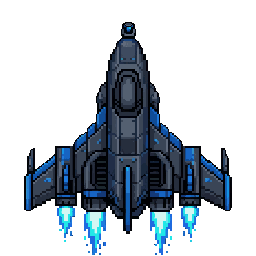
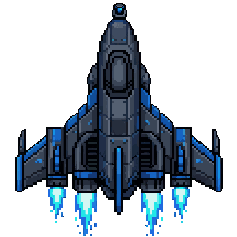
feat: Enemies, bullet colisios and explosion animation added.

Changed region(s): [[0.0591, 0.0, 0.9451, 1.0]]

diff --git a/js/enemy.js b/js/enemy.js
@@ -1,0 +1,54 @@
+import { createExplosion } from "./explosion.js"
+const ctx = document.querySelector(".playercanvas").getContext("2d");
+
+const sprite = new Image();
+sprite.src = "./assets/ships/enemy-ship-1.png"
+
+function Enemy() {
+    this.x = Math.random() * window.innerWidth;
+    this.y = window.innerHeight / 8;
+    this.dead = false;
+    this.size = 70;
+}
+
+const enemies = [];
+
+
+
+for (let i = 0; i < 6; i++) {
+    enemies.push(new Enemy());
+}
+
+export function checkColision(x, y) {
+    for (const e of enemies) {
+        if (y <= e.y + 15 && x >= e.x && x <= e.x + e.size) {
+            e.dead = true;
+            createExplosion(e.x, e.y);
+            return true;
+        }
+    }
+
+    return false;
+}
+
+export function initEnemy() {
+    sprite.onload = () => {
+        enemies.forEach((e) => {
+            ctx.drawImage(sprite, e.x, e.y, e.size, e.size);
+        });
+    };
+}
+
+export function updateEnemy() {
+    for (let i = enemies.length - 1; i >= 0; i--) {
+        if (enemies[i].dead) {
+            enemies.splice(i, 1);
+        }
+    }
+}
+
+export function drawEnemy() {
+    enemies.forEach((e) => {
+        ctx.drawImage(sprite, e.x, e.y, e.size, e.size);
+    });
+}

diff --git a/js/explosion.js b/js/explosion.js
@@ -1,0 +1,49 @@
+const ctx = document.querySelector(".playercanvas").getContext("2d");
+
+const sprite = new Image();
+sprite.src = "./assets/ships/explosion.png";
+
+const spriteSize = 128;
+const totalFrames = 10;
+const frameTime = 2; //a frame each 4 updates
+
+const explosions = [];
+
+export function createExplosion(x, y) {
+    explosions.push({
+        x,
+        y,
+        frame: 0,
+        timer: 0
+    });
+}
+
+export function drawExplosions() {
+    for (let i = explosions.length - 1; i >= 0; i--) {
+
+        const e = explosions[i];
+
+        ctx.drawImage(
+            sprite,
+            e.frame * spriteSize,
+            0,
+            spriteSize,
+            spriteSize,
+            e.x - 29,
+            e.y - 29,
+            spriteSize,
+            spriteSize
+        );
+
+        e.timer++;
+
+        if (e.timer >= frameTime) {
+            e.timer = 0;
+            e.frame++;
+        }
+
+        if (e.frame >= totalFrames) {
+            explosions.splice(i, 1);
+        }
+    }
+}

diff --git a/js/shoot.js b/js/shoot.js
@@ -1,3 +1,5 @@
+import {checkColision} from "./enemy.js"
+
 const shots = [];
 let ctx = null;
 
@@ -8,17 +10,22 @@ function Shot(x,y){
     this.x = x;
     this.y = y;
     this.color = "red";
-    this.radius = 2;
+    this.width = 5;
+    this.height = 8;
     this.velocity = 6;
+    this.impact = false;
 }
 
 Shot.prototype.draw = function(){
-    ctx.drawImage(bullet, this.x, this.y, 5, 8);
+    ctx.drawImage(bullet, this.x, this.y, this.width, this.height); 
 };
 
 Shot.prototype.update = function(){
     this.draw();
     this.y -= this.velocity;
+    if(checkColision(this.x, this.y)){
+        this.impact = true;
+    }
 };
 
 export function createShoot(playerX, playerY, context){
@@ -30,7 +37,7 @@ export function updateShoot(){
     //when bullets are no longer visible, they are deleted
     for(let i = shots.length - 1; i >= 0; i--){
         shots[i].update();
-        if(shots[i].y + 8 < 0){
+        if(shots[i].y + 8 < 0 || shots[i].impact){
             shots.splice(i, 1);
         }
     }

diff --git a/js/game.js b/js/game.js
@@ -1,22 +1,28 @@
 import * as bg from "./background.js";
 import * as player from "./player.js";
 import * as shoot from "./shoot.js";
+import * as enemy from "./enemy.js";
+import * as explosion from "./explosion.js"
 
 const ctx = document.querySelector(".playercanvas").getContext("2d");
 
 bg.initBackground();
 player.initPlayer();
+enemy.initEnemy();
 
 function update() {
     ctx.clearRect(0, 0, window.innerWidth, window.innerHeight);
     bg.updateBackground();
     player.updatePlayer();
     shoot.updateShoot();
+    enemy.updateEnemy();
 }
 
 function draw() {
     bg.drawBackground();
     player.drawPlayer();
+    enemy.drawEnemy();
+    explosion.drawExplosions();
 }
 
 function gameLoop() {
@@ -27,3 +33,7 @@ function gameLoop() {
 }
 
 gameLoop();
+
+document.addEventListener("contextmenu", (e) => {
+    e.preventDefault();
+});

diff --git a/style.css b/style.css
@@ -4,6 +4,11 @@
     padding: 0;
     margin: 0;
     overflow: hidden;
+    user-select: none;
+}
+
+body{
+    cursor: none;
 }
 
 /******************

diff --git a/index.html b/index.html
@@ -14,6 +14,7 @@
     <script type="module" src="./js/background.js"> </script>
     <script type="module" src="./js/shoot.js">      </script>
     <script type="module" src="./js/player.js">     </script>
+    <script type="module" src="./js/enemy.js">     </script>
     <script type="module" src="./js/game.js">       </script>
 </body>
 </html>